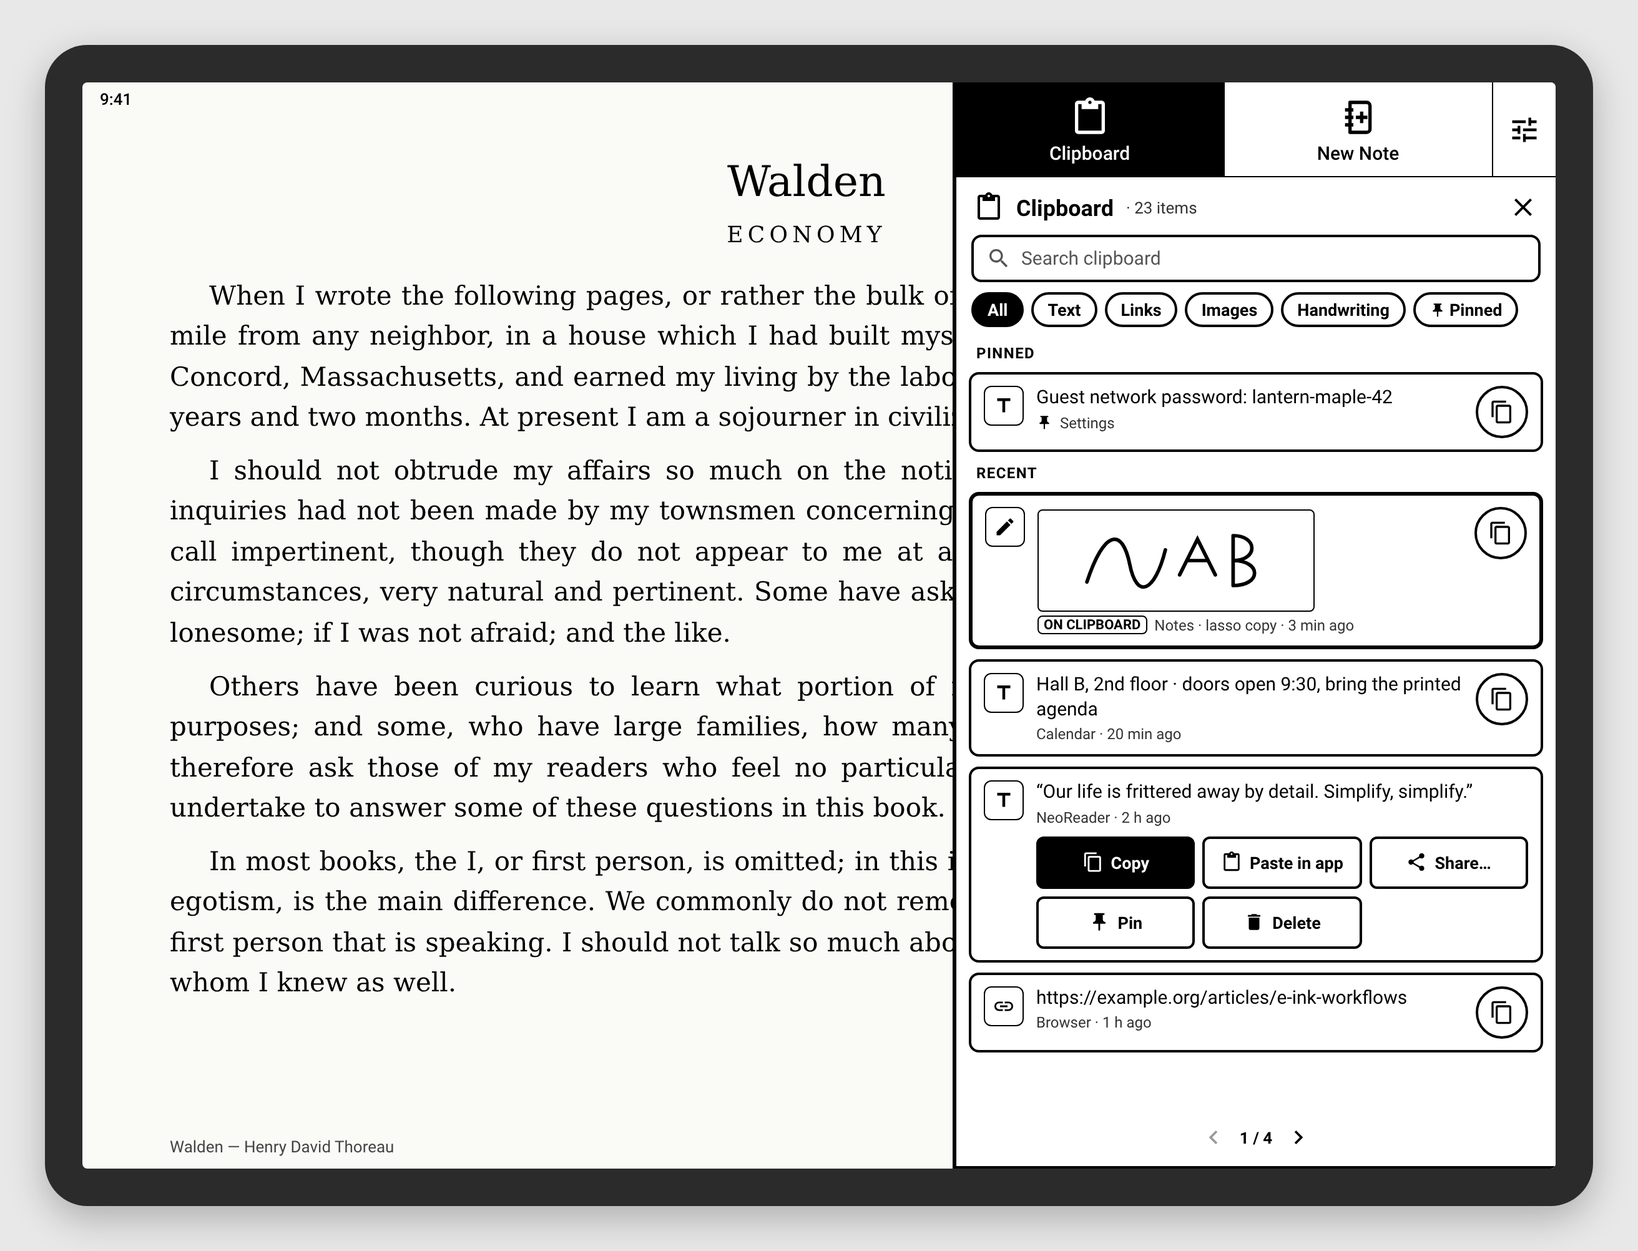
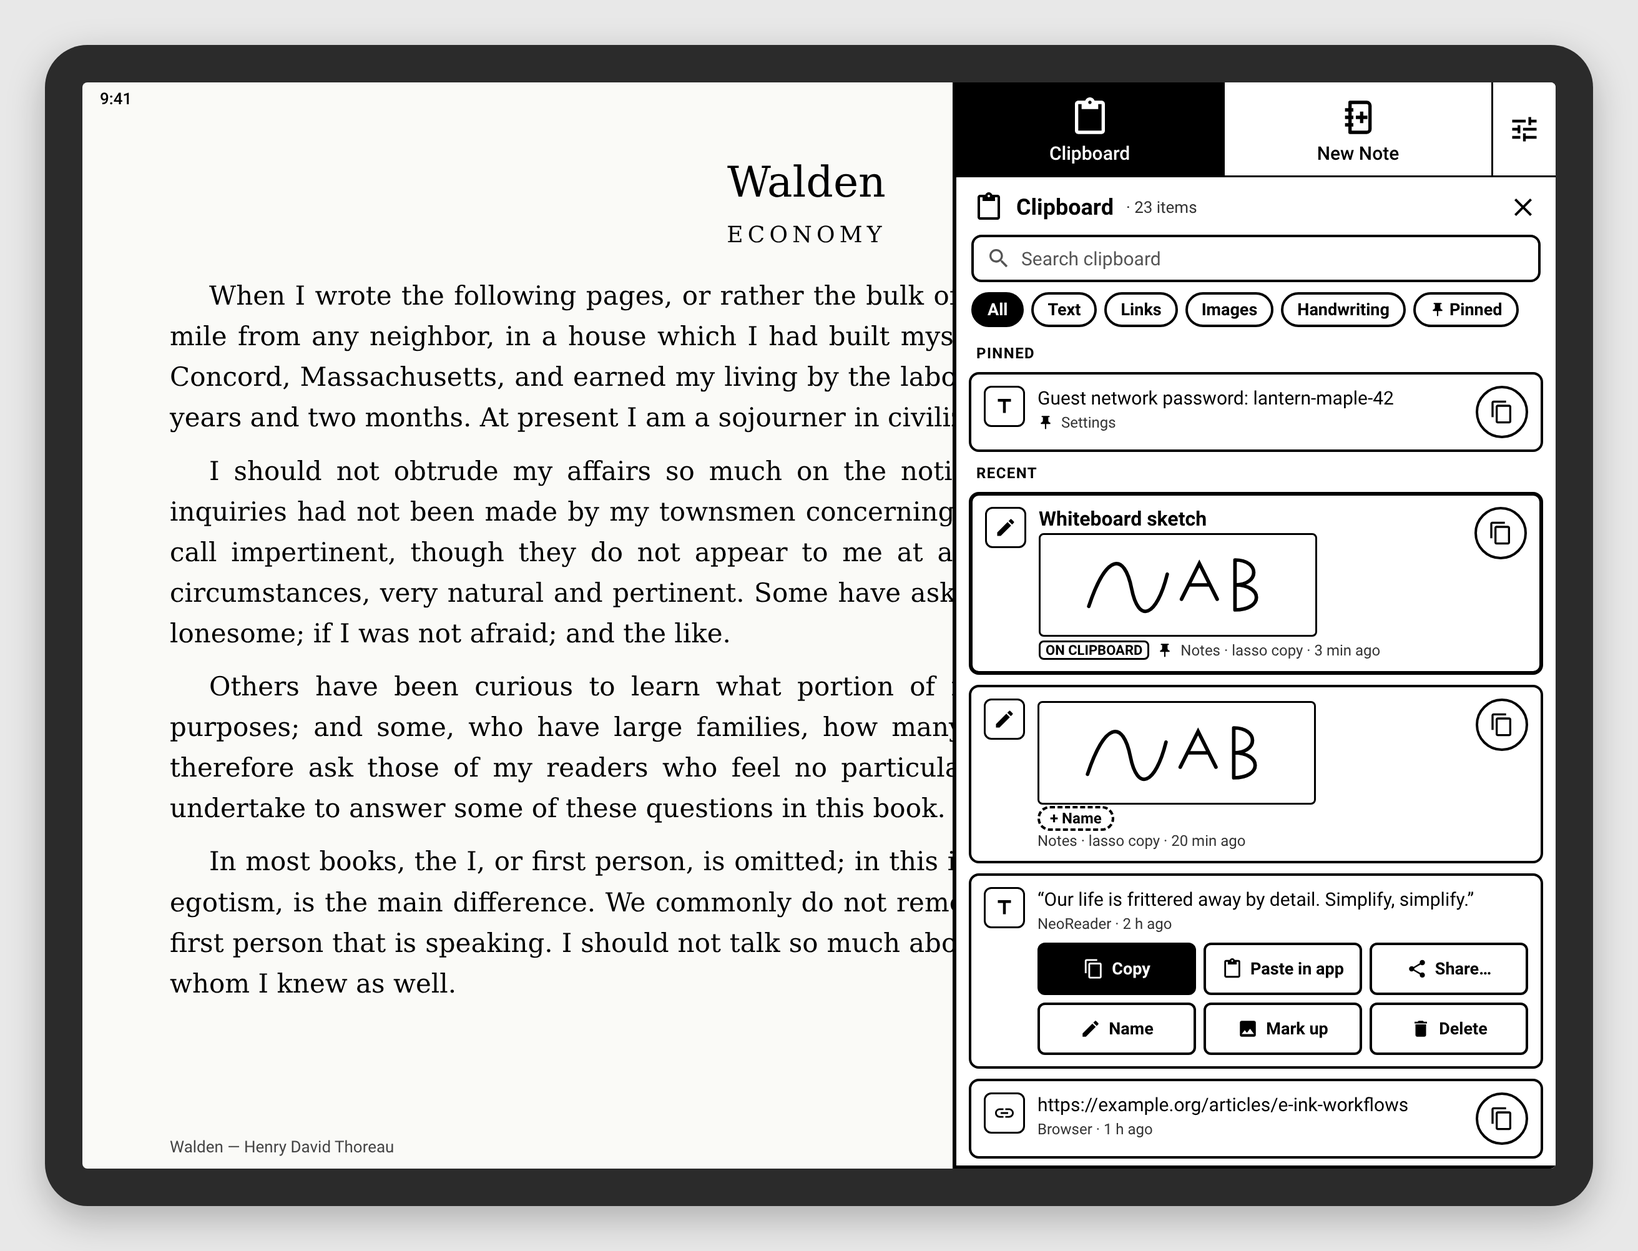
Launch images and README: redraw the 1.1.0 panel, add Writing mode and What's new images
Claude-Session: https://claude.ai/code/session_01MaJnjqgCqAaXKPaENyFunX

diff --git a/docs/launch/launch.html b/docs/launch/launch.html
@@ -1,6 +1,6 @@
 <!doctype html>
 <html><head><meta charset="utf-8">
-<!-- Launch and Reddit images: the panel as built (build 63), with made-up names and a public-domain book. Rendered at 2x. -->
+<!-- Launch and Reddit images: drawn mockups of the panel as of 1.1.0 (not device screenshots), with made-up names and a public-domain book. Rendered at 2x. -->
 <style>
   @font-face { font-family: Roboto; src: url(../mockups/fonts/roboto-latin-400-normal.woff2); }
   @font-face { font-family: Roboto; font-weight: 500; src: url(../mockups/fonts/roboto-latin-500-normal.woff2); }
@@ -30,7 +30,7 @@
   .pin { display: flex; align-items: center; gap: 12px; padding: 12px 18px; font-size: 17px; }
   .apps { margin-top: auto; border-top: 2.5px solid #000; }
   .apps .row { display: flex; } .apps .row + .row { border-top: 1px solid #000; }
-  .apps .cell { flex: 1; display: flex; flex-direction: column; align-items: center; padding: 8px 0; font-size: 14px; gap: 3px; }
+  .apps .cell { flex: 1; display: flex; flex-direction: column; align-items: center; padding: 6px 0; font-size: 14px; gap: 3px; }
   .apps .vs { width: 1px; background: #000; margin: 10px 0; }
   .appi { width: 40px; height: 40px; border-radius: 10px; background: #3a3a3a; color: #fff; display: flex; align-items: center; justify-content: center; font-weight: 700; font-size: 15px; }
   .bubble { position: absolute; background: #fff; border: 2px solid #000; border-radius: 12px; padding: 6px 10px; font-size: 13px; font-weight: 500; box-shadow: 0 2px 6px rgba(0,0,0,.2); }
@@ -126,6 +126,20 @@
   .pvtag { position: absolute; z-index: 5; right: 240px; transform: translateX(50%); bottom: 230px; background: #000; color: #fff; font-size: 13px; font-weight: 700; padding: 4px 12px; border-radius: 10px; white-space: nowrap; }
   .sl2 { padding: 14px 18px; } .sl2 .t { font-size: 17px; } .sl2 .tr { height: 6px; background: #999; border-radius: 3px; margin-top: 14px; position: relative; }
   .sl2 .tr i { position: absolute; left: 0; top: 0; bottom: 0; background: #000; border-radius: 3px; } .sl2 .tr b { position: absolute; top: -8px; width: 22px; height: 22px; border-radius: 50%; background: #000; }
+  .thisapp { display: flex; align-items: center; gap: 8px; padding: 8px 12px; border-bottom: 1px solid #000; }
+  .thisapp .ta1 { flex: 1; } .thisapp b { display: block; font-size: 15px; font-weight: 500; } .lab2 { font-size: 11px; font-weight: 700; letter-spacing: .06em; }
+  .appi.prev { background: #000; border: 2px solid #000; }
+  .exp { margin-left: auto; }
+  .sub { display: flex; align-items: center; gap: 10px; padding: 8px 18px 8px 52px; font-size: 16px; }
+  .wbar { margin: 6px 6px 8px; background: #000; color: #fff; border-radius: 10px; display: flex; align-items: center; gap: 10px; padding: 8px 8px 8px 12px; }
+  .wbar b { display: block; font-size: 15px; } .wbar span { font-size: 12.5px; }
+  .wbar .off { margin-left: auto; background: #fff; color: #000; border-radius: 8px; padding: 6px 10px; font-weight: 700; font-size: 14px; }
+  .pill { margin: 6px 6px 8px; border: 2px solid #000; border-radius: 22px; display: flex; align-items: center; gap: 6px; padding: 6px 6px 6px 14px; font-size: 14px; font-weight: 500; }
+  .pill .l { flex: 1; } .pill .b2 { border: 2px solid #000; border-radius: 16px; padding: 6px 12px; font-weight: 700; } .pill .b2.k { background: #000; color: #fff; }
+  .nm { font-weight: 700; font-size: 16px; }
+  .nmchip { border: 2px dashed #000; border-radius: 12px; padding: 1px 8px; font-size: 12px; font-weight: 700; }
+  .wn { padding: 8px 24px; } .wn b { display: block; font-size: 19px; } .wn p { margin: 2px 0 10px; font-size: 16.5px; line-height: 1.4; }
+  .notesui { position: absolute; inset: 26px 0 0 0; background: #fff; }
 </style></head>
 <body><div class="stage" id="stage"></div>
 <script>
@@ -169,6 +183,7 @@ const notes = (h, items) => `<div class="notes"><h3>${h}</h3><ul>${items.map(i =
 const ib = (k, off) => `<div class="ib ${off ? "off" : ""}">${g(k, 22)}</div>`;
 const radio = (on, t1, t2) => `<div class="opt2"><div class="radio ${on ? "on" : ""}" style="width:20px;height:20px;border:2px solid #000;border-radius:50%;flex:none;box-sizing:border-box;${on ? "background:radial-gradient(#000 45%,#fff 50%)" : ""}"></div><div><div class="t1" style="font-size:17px;font-weight:500">${t1}</div><div class="t2" style="font-size:13px;color:#333">${t2}</div></div></div>`;
 const head = (t) => `<div class="title" style="display:flex;align-items:center;gap:12px"><div class="back">${g("left", 26)}</div>${t}</div><div class="rule3"></div>`;
+F.folder = "M10,4H4c-1.1,0 -1.99,0.9 -1.99,2L2,18c0,1.1 0.9,2 2,2h16c1.1,0 2,-0.9 2,-2V8c0,-1.1 -0.9,-2 -2,-2h-8l-2,-2z";
 F.drag = "M20,9H4v2h16V9zM4,15h16v-2H4v2z";
 F.save = "M17,3H5c-1.11,0 -2,0.9 -2,2v14c0,1.1 0.89,2 2,2h14c1.1,0 2,-0.9 2,-2V7l-4,-4zM12,19c-1.66,0 -3,-1.34 -3,-3s1.34,-3 3,-3 3,1.34 3,3 -1.34,3 -3,3zM15,9H5V5h10v4z";
 F.bug = "M20,8h-2.81c-0.45,-0.78 -1.07,-1.45 -1.82,-1.96L17,4.41 15.59,3l-2.17,2.17C12.96,5.06 12.49,5 12,5s-0.96,0.06 -1.41,0.17L8.41,3 7,4.41l1.62,1.63C7.88,6.55 7.26,7.22 6.81,8H4v2h2.09c-0.05,0.33 -0.09,0.66 -0.09,1v1H4v2h2v1c0,0.34 0.04,0.67 0.09,1H4v2h2.81c1.04,1.79 2.97,3 5.19,3s4.15,-1.21 5.19,-3H20v-2h-2.09c0.05,-0.33 0.09,-0.66 0.09,-1v-1h2v-2h-2v-1c0,-0.34 -0.04,-0.67 -0.09,-1H20V8zM14,16h-4v-2h4v2zM14,12h-4v-2h4v2z";
@@ -192,7 +207,7 @@ const css = `
   .hub .hh { display: flex; align-items: center; gap: 10px; padding: 12px 14px 6px; }
   .hub .hh b { font-size: 18px; } .hub .hh span { font-size: 13px; color: #333; }
   .srch { margin: 4px 12px 8px; border: 2px solid #000; border-radius: 8px; display: flex; align-items: center; gap: 8px; padding: 7px 10px; font-size: 15px; color: #555; }
-  .chips { display: flex; gap: 6px; padding: 0 12px 8px; }
+  .chips { display: flex; gap: 6px; padding: 0 12px 8px; flex: none; }
   .chip { display: inline-flex; align-items: center; gap: 3px; white-space: nowrap; border: 2px solid #000; border-radius: 16px; padding: 4px 11px; font-size: 13.5px; font-weight: 700; }
   .chip.on { background: #000; color: #fff; }
   .chip svg { display: inline; }
@@ -216,15 +231,18 @@ document.head.insertAdjacentHTML("beforeend", `<style>${css}</style>`);
 
 const topBar = (lit) => `<div class="top"><div class="c ${lit ? "lit" : ""}">${g("clip", 32, lit ? "#fff" : "#000")}Clipboard</div><div class="sep"></div><div class="c">${g("note_new", 32)}New Note</div><div class="sep"></div><div class="gear">${g("settings", 26)}</div></div>`;
 const tile = ([k, l, on]) => `<div class="tile"><div class="dot ${on ? "on" : ""}">${g(k, 26, on ? "#fff" : "#000")}</div>${l}</div>`;
-const QC = [["wifi", "Wi‑Fi", 1], ["bt", "Bluetooth", 0], ["light", "Front Light", 1], ["moon", "Do Not Disturb", 0], ["refresh", "Full Refresh", 0]];
+const QC = [["wifi", "Wi‑Fi", 1], ["bt", "Bluetooth", 0], ["light", "Front Light", 1], ["pencil", "Writing", 0], ["refresh", "Full Refresh", 0]];
 const qc = `<div class="qc"><div class="tiles">${QC.map(tile).join("")}</div><div class="pager">${g("left", 22, "#999")}1 / 2${g("right", 22)}</div></div>`;
 const lastRows = `<div class="last">${g("note", 30)}<div><b>Last Opened Note</b><span>Meeting Notes</span></div></div><div class="ir"></div>
   <div class="last">${g("book", 30)}<div><b>Last Opened Document</b><span>Field Guide · NeoReader</span></div></div>`;
 const qaBar = (mark) => `<div class="qa"><div class="rec ${mark ? "new" : ""}">${g("clock", 24)}Recent</div>Quick Access<div class="add">${g("link_add", 24)}Add</div></div>`;
 const pins = [["note", "Meeting Notes"], ["note", "Daily Journal"], ["note", "Project Ideas"], ["book", "Field Guide"]]
   .map(([k, t], i) => (i ? `<div class="ir"></div>` : "") + `<div class="pin">${g(k, 22)}${t}</div>`).join("");
-const apps = `<div class="apps"><div class="row"><div class="cell"><div class="appi">10</div>Calendar</div><div class="vs"></div><div class="cell"><div class="appi">Aa</div>Dictionary</div></div>
-  <div class="row"><div class="cell"><div class="appi">±</div>Calculator</div><div class="vs"></div><div class="cell"><div class="appi">◎</div>Browser</div></div></div>`;
+const thisApp = `<div class="thisapp"><div class="ta1"><span class="lab2">THIS APP</span><b>Walden · NeoReader</b></div><div class="small">Optimize</div><div class="small">EinkWise</div></div>`;
+const appCell = (ic, l) => `<div class="cell"><div class="appi">${ic}</div>${l}</div>`;
+const prevCell = `<div class="cell"><div class="appi prev">${g("back", 22, "#fff")}</div>Previous app</div>`;
+const apps = `<div class="apps">${thisApp}<div class="row">${appCell("10", "Calendar")}<div class="vs"></div>${appCell("Aa", "Dictionary")}<div class="vs"></div>${appCell("±", "Calculator")}</div>
+  <div class="row">${appCell("◎", "Browser")}<div class="vs"></div>${appCell("✉", "Mail")}<div class="vs"></div>${prevCell}</div></div>`;
 const shell = (inner, mark) => `<div class="panel">${inner}</div>`;
 
 const scribble = `<svg class="thumb" viewBox="0 0 120 56"><path fill="none" stroke="#000" stroke-width="2" stroke-linecap="round" d="M10,40 C20,10 30,10 34,30 S48,46 54,22 M62,36 l10,-20 l10,20 M66,28 h12 M92,14 v28 M92,14 c14,0 14,14 0,14 c16,0 16,14 0,14"/></svg>`;
@@ -239,7 +257,7 @@ const CLIPS = {
   ref: { k: "link", s: "https://example.com/docs/getting-started", m: "Browser · 2 days ago" },
 };
 const clip = (c, acts = "") => `<div class="clip ${c.now ? "now" : ""}"><div class="k">${g(c.k, 18)}</div><div class="b">
-  ${c.img ? scribble : `<div class="s">${c.s}</div>`}
+  ${c.name ? `<div class="nm">${c.name}</div>` : ""}${c.img ? scribble : `<div class="s">${c.s}</div>`}${c.chip ? `<span class="nmchip">+ Name</span>` : ""}
   <div class="m">${c.now ? `<span class="tag">ON CLIPBOARD</span>` : ""}${c.pin ? g("pinned", 13) : ""}${c.m}</div>${acts}</div>
   ${acts ? "" : `<div class="cp">${g("copy", 20)}</div>`}</div>`;
 const hub = (items, page, pages, extra = "") => `<div class="hub">
@@ -279,11 +297,12 @@ const homeSettings = `<div class="hs"><div class="title">SuperBoox</div><div cla
       ${menuRow("apps", "Apps at the bottom", "6 apps · Previous app included")}
       ${menuRow("clip", "Clipboard", "On · 23 clips · saved when the panel opens")}</div></div>
   <div><div class="sec">HELP</div><div class="card">
+      ${menuRow("star", "What's new in 1.1.0", "The features added since 1.0.0")}
       ${menuRow("star", "Show the tour again", "A quick walk-through, and the permissions SuperBoox uses")}
       ${menuRow("bug", "Troubleshooting", "Copy or share a debug report")}
       ${menuRow("shield", "Advanced access", "Optional · unlocks independent Front Light presets")}
       ${menuRow("save", "Backup &amp; restore", "Save your settings to a file")}
-      ${menuRow("settings", "Advanced", "BOOX Notes package")}</div>
+</div>
     <div class="para">Every page with a panel setting shows the real panel beside it while you change things.</div></div>
   </div></div>`;
 
@@ -297,10 +316,10 @@ const sbar = `<div class="sb"><span>9:41</span><span>Wi‑Fi&nbsp;&nbsp;82%</spa
 const reader = sbar + `<div class="reader"><h1>Walden</h1><h2>ECONOMY</h2>${WALDEN.map(p => `<p>${p}</p>`).join("")}</div><div class="rfoot"><span>Walden — Henry David Thoreau</span><span>12 / 284</span></div>`;
 const over = (inner) => reader + `<div class="panel">${inner}</div>`;
 
-const lastW = `<div class="last">${g("note", 30)}<div><b>Last Opened Note</b><span>Meeting Notes</span></div></div><div class="ir"></div>
+const lastW = `<div class="last">${g("note", 30)}<div><b>Last Opened Note</b><span>Daily › Meeting Notes</span></div></div><div class="ir"></div>
   <div class="last">${g("book", 30)}<div><b>Last Opened Document</b><span>Walden · NeoReader</span></div></div>`;
-const pins4 = [["note", "Meeting Notes"], ["note", "Daily Journal"], ["note", "Project Ideas"], ["book", "Field Guide"]]
-  .map(([k, t], i) => (i ? `<div class="ir"></div>` : "") + `<div class="pin">${g(k, 22)}${t}</div>`).join("");
+const pins4 = [["note", "Meeting Notes"], ["folder", "Daily"], ["book", "Field Guide"]]
+  .map(([k, t], i) => (i ? `<div class="ir"></div>` : "") + `<div class="pin">${g(k, 22)}${t}${k === "folder" ? `<span class="exp">${g("down", 24)}</span>` : ""}</div>`).join("");
 const pins2 = pins4.split(`<div class="ir"></div>`).slice(0, 2).join(`<div class="ir"></div>`);
 
 // Front Light presets, page 2: your own (Advanced access).
@@ -311,19 +330,21 @@ const flMine = `<div style="padding:6px 6px 8px"><div class="fl" style="margin:0
   <div class="hint">Tap to switch · hold to adjust · page 1 has BOOX's own Bright, Soft, Custom, Off</div></div></div>`;
 
 const CL = {
-  ink: { k: "pencil", img: 1, m: "Notes · lasso copy · 3 min ago", now: 1 },
+  ink: { k: "pencil", img: 1, name: "Whiteboard sketch", m: "Notes · lasso copy · 3 min ago", now: 1, pin: 1 },
+  ink2: { k: "pencil", img: 1, chip: 1, m: "Notes · lasso copy · 20 min ago" },
   addr: { k: "text", s: "Hall B, 2nd floor · doors open 9:30, bring the printed agenda", m: "Calendar · 20 min ago" },
   link: { k: "link", s: "https://example.org/articles/e-ink-workflows", m: "Browser · 1 h ago" },
   quote: { k: "text", s: "“Our life is frittered away by detail. Simplify, simplify.”", m: "NeoReader · 2 h ago" },
   wifi: { k: "text", s: "Guest network password: lantern-maple-42", m: "Settings", pin: 1 },
 };
-const acts = `<div class="acts">${btn("copy", "Copy", 1)}${btn("paste", "Paste in app")}${btn("share", "Share…")}${btn("pinned", "Pin")}${btn("del", "Delete")}</div>`;
+F.markup = F.pencil;
+const acts = `<div class="acts">${btn("copy", "Copy", 1)}${btn("paste", "Paste in app")}${btn("share", "Share…")}${btn("pencil", "Name")}${btn("image", "Mark up")}${btn("del", "Delete")}</div>`;
 const hubL = `<div class="hub">
   <div class="hh">${g("clip", 24)}<b>Clipboard</b><span>· 23 items</span><span style="margin-left:auto">${g("close", 24)}</span></div>
   <div class="srch">${g("search", 20, "#555")}Search clipboard</div>
   <div class="chips" style="overflow:hidden"><span class="chip on">All</span><span class="chip">Text</span><span class="chip">Links</span><span class="chip">Images</span><span class="chip">Handwriting</span><span class="chip">${g("pinned", 13)} Pinned</span></div>
   <div class="lab"><span>PINNED</span></div>${clip(CL.wifi)}
-  <div class="lab"><span>RECENT</span></div>${clip(CL.ink)}${clip(CL.addr)}${clip(CL.quote, acts)}${clip(CL.link)}
+  <div class="lab"><span>RECENT</span></div>${clip(CL.ink)}${clip(CL.ink2)}${clip(CL.quote, acts)}${clip(CL.link)}
   <div class="hubfoot"><div class="pager">${g("left", 22, "#999")}1 / 4${g("right", 22)}</div></div></div>`;
 
 const SCREENS = {
@@ -342,7 +363,7 @@ const hero = () => over(topBar(false) + qc + lastW + qaBar(false) + pins4 + apps
   co(400, 4, "Quick Access.", "Pinned notes, books, folders, apps. Add pins what's open; Recent lists what you opened.") +
   co(745, 5, "Your apps,", "a swipe for more.");
 
-const tour = () => `${sbar}<div class="tset"><div class="bar">STEP 4 OF 8<span class="skip">Skip tour</span></div>
+const tour = () => `${sbar}<div class="tset"><div class="bar">STEP 7 OF 10<span class="skip">Skip tour</span></div>
   <h2>Around the panel</h2><p>The real panel is open beside this page, with your own items. Here's what each part does:</p>
   <div class="steps">
     <div><span class="num">1</span><div><b>Top bar.</b> Clipboard, New Note, Settings.</div></div>
@@ -350,7 +371,7 @@ const tour = () => `${sbar}<div class="tset"><div class="bar">STEP 4 OF 8<span c
     <div><span class="num">3</span><div><b>Last opened</b> note and document.</div></div>
     <div><span class="num">4</span><div><b>Quick Access.</b> Your pinned notes, books, folders. <b>Add</b> pins what's open; hold the list to edit it. <b>Recent</b> lists recent files.</div></div>
     <div><span class="num">5</span><div><b>Apps</b> at the bottom, swipe for more.</div></div></div>
-  <div class="tfoot"><div class="btn">‹ Previous</div><div class="tdots">${Array.from({ length: 8 }, (_, k) => `<i class="${k === 3 ? "on" : ""}"></i>`).join("")}</div><div class="btn go">Next ›</div></div></div>
+  <div class="tfoot"><div class="btn">‹ Previous</div><div class="tdots">${Array.from({ length: 10 }, (_, k) => `<i class="${k === 6 ? "on" : ""}"></i>`).join("")}</div><div class="btn go">Next ›</div></div></div>
   <div class="panel">${topBar(false) + qc + lastW + qaBar(false) + pins4 + apps}</div>`;
 
 const sl2 = (t, pct) => `<div class="sl2"><div class="t">${t}</div><div class="tr"><i style="width:${pct}%"></i><b style="left:calc(${pct}% - 11px)"></b></div></div>`;
@@ -360,6 +381,16 @@ const live = () => `${sbar}<div class="tset" style="display:block">${head("Look 
   <div class="sec">PAGES</div><div class="card" style="margin:0 16px"><div class="check"><div class="box on"></div>Remember the last page</div><div class="check"><div class="box"></div>Use apps' own icons</div></div></div>
   <div class="panel">${topBar(false) + qc + lastW + qaBar(false) + pins4 + apps}</div><div class="pvtag">PREVIEW · 40%</div>`;
 
-Object.assign(SCREENS, { hero, tour, live });
+const whatsnew = () => `${sbar}<div class="tset"><div class="bar">NEW IN 1.1.0 · 1 OF 3<span class="skip">Skip</span></div>
+  <h2>Writing and the clipboard</h2>
+  <div class="wn"><b>Writing mode</b><p>One tap turns off Wi‑Fi, Bluetooth and the Front Light; tap again and only what it switched comes back.</p>
+  <b>Tap to paste</b><p>Tap a clip to paste it; hold it for Copy, Name, Mark up, Share, Pin or Delete.</p>
+  <b>Names and Mark up</b><p>Name a handwriting clip, pin it, find it by name, and mark up a picture in BOOX's editor.</p></div>
+  <div class="tfoot" style="margin-top:auto"><div class="btn" style="opacity:.4">‹ Previous</div><div class="tdots"><i class="on"></i><i></i><i></i></div><div class="btn go">Next ›</div></div></div>
+  <div class="panel">${topBar(false) + qc + `<div class="pill"><span class="l">New in 1.1.0</span><span class="b2">Skip</span><span class="b2 k">See what's new</span></div>` + lastW + qaBar(false) + pins4 + apps}</div>`;
+const writing = () => `<div class="notesui"><div style="padding:60px 80px;font-size:26px;line-height:1.6;color:#222">Notes · Meeting Notes<br><svg width="640" height="360" viewBox="0 0 640 360"><path fill="none" stroke="#000" stroke-width="3" stroke-linecap="round" d="M20,60 C80,10 140,110 200,50 S320,20 380,70 M20,140 C120,100 160,200 260,150 S420,120 520,160 M20,240 C100,210 180,300 300,240"/></svg></div></div>
+  <div class="panel">${topBar(false) + `<div class="qc"><div class="tiles">${[["wifi", "Wi‑Fi", 0], ["bt", "Bluetooth", 0], ["light", "Front Light", 0], ["pencil", "Writing", 1], ["refresh", "Full Refresh", 0]].map(tile).join("")}</div></div>
+  <div class="wbar">${g("pencil", 24, "#fff")}<div><b>Writing mode is on</b><span>Wi‑Fi, Bluetooth and Front Light are off</span></div><span class="off">Turn off</span></div>` + lastW + qaBar(false) + pins4 + apps}</div>`;
+Object.assign(SCREENS, { hero, tour, live, whatsnew, writing });
 document.getElementById("stage").innerHTML = `<div class="device"><div class="screen">${SCREENS[location.hash.slice(1) || "panel"]()}</div></div>`;
 </script></body></html>

diff --git a/README.md b/README.md
@@ -20,6 +20,8 @@ No computer or adb needed. No internet permission.
 
 Coming from 1.0.0? Here is what changed:
 
+![Writing mode on: the panel's black bar says what it switched off](docs/launch/5-writing.png)
+
 - **Swipes inside the panel.** Swipe right on Quick Access for Recent Files and right again to come back. In the Clipboard, swipe left for older clips and right for newer.
 - **Front Light in one tap.** The tile cycles Off, Soft, Bright and Custom; Custom opens its sliders.
 - **Apps at the bottom, rearranged.** Rows fit your pinned apps automatically, **Previous app** always sits bottom-right, and icons can be black glyphs.
@@ -32,6 +34,8 @@ Coming from 1.0.0? Here is what changed:
 - **Clear** the clipboard or Recent Files, or remove one row.
 - **Older BOOX models.** Pinned notes open from anywhere on older firmware; Add works in the library and inside a note; **Add on the Library tab** pins books.
 - **Settings.** Fewer pages and switches, sized for 7", 10.3" and 13.3" screens, and **Troubleshooting** shows your BOOX model and what is confirmed on it. **Show tips again** is under Help.
+
+![The What's new pages and the one-time panel card, shown to people updating from 1.0.0](docs/launch/6-whats-new.png)
 
 ## Getting started
 
@@ -245,4 +249,4 @@ The UI is built in code (`Ui.kt`). The only libraries are Shizuku's API (used on
 
 `./gradlew assembleDebug` needs JDK 17 and the Android SDK. Every push builds an APK and publishes it as a GitHub release.
 
-The launch images are drawn from `docs/launch/launch.html`, with made-up names and a public-domain book.
+The images in `docs/launch/` are drawn mockups of the 1.1.0 panel (not device screenshots), rendered from `docs/launch/launch.html` with made-up names and a public-domain book.

diff --git a/docs/launch/reddit-post-3.md b/docs/launch/reddit-post-3.md
@@ -23,4 +23,11 @@ GitHub: https://github.com/rn-os/superboox
 
 Built with Claude Code. Feedback welcome.
 
-[Gallery: panel over a book, clipboard with handwriting, Writing mode card, Notes folder expanded, Settings]
+**Images** (in `docs/launch/reddit/`; drawn mockups, not device screenshots, with made-up names and a public-domain book):
+
+1. `1-hero.png`: the panel over a book, with callouts.
+2. `2-clipboard.png`: named handwriting clip, "+ Name" chip, tap-and-hold actions with Mark up.
+3. `3-light.png`: your own Front Light presets.
+4. `7-writing-mode.png`: Writing mode on, with the black bar.
+5. `8-whats-new.png`: the What's new pages and the panel card.
+6. `6-settings.png`: Settings home.
